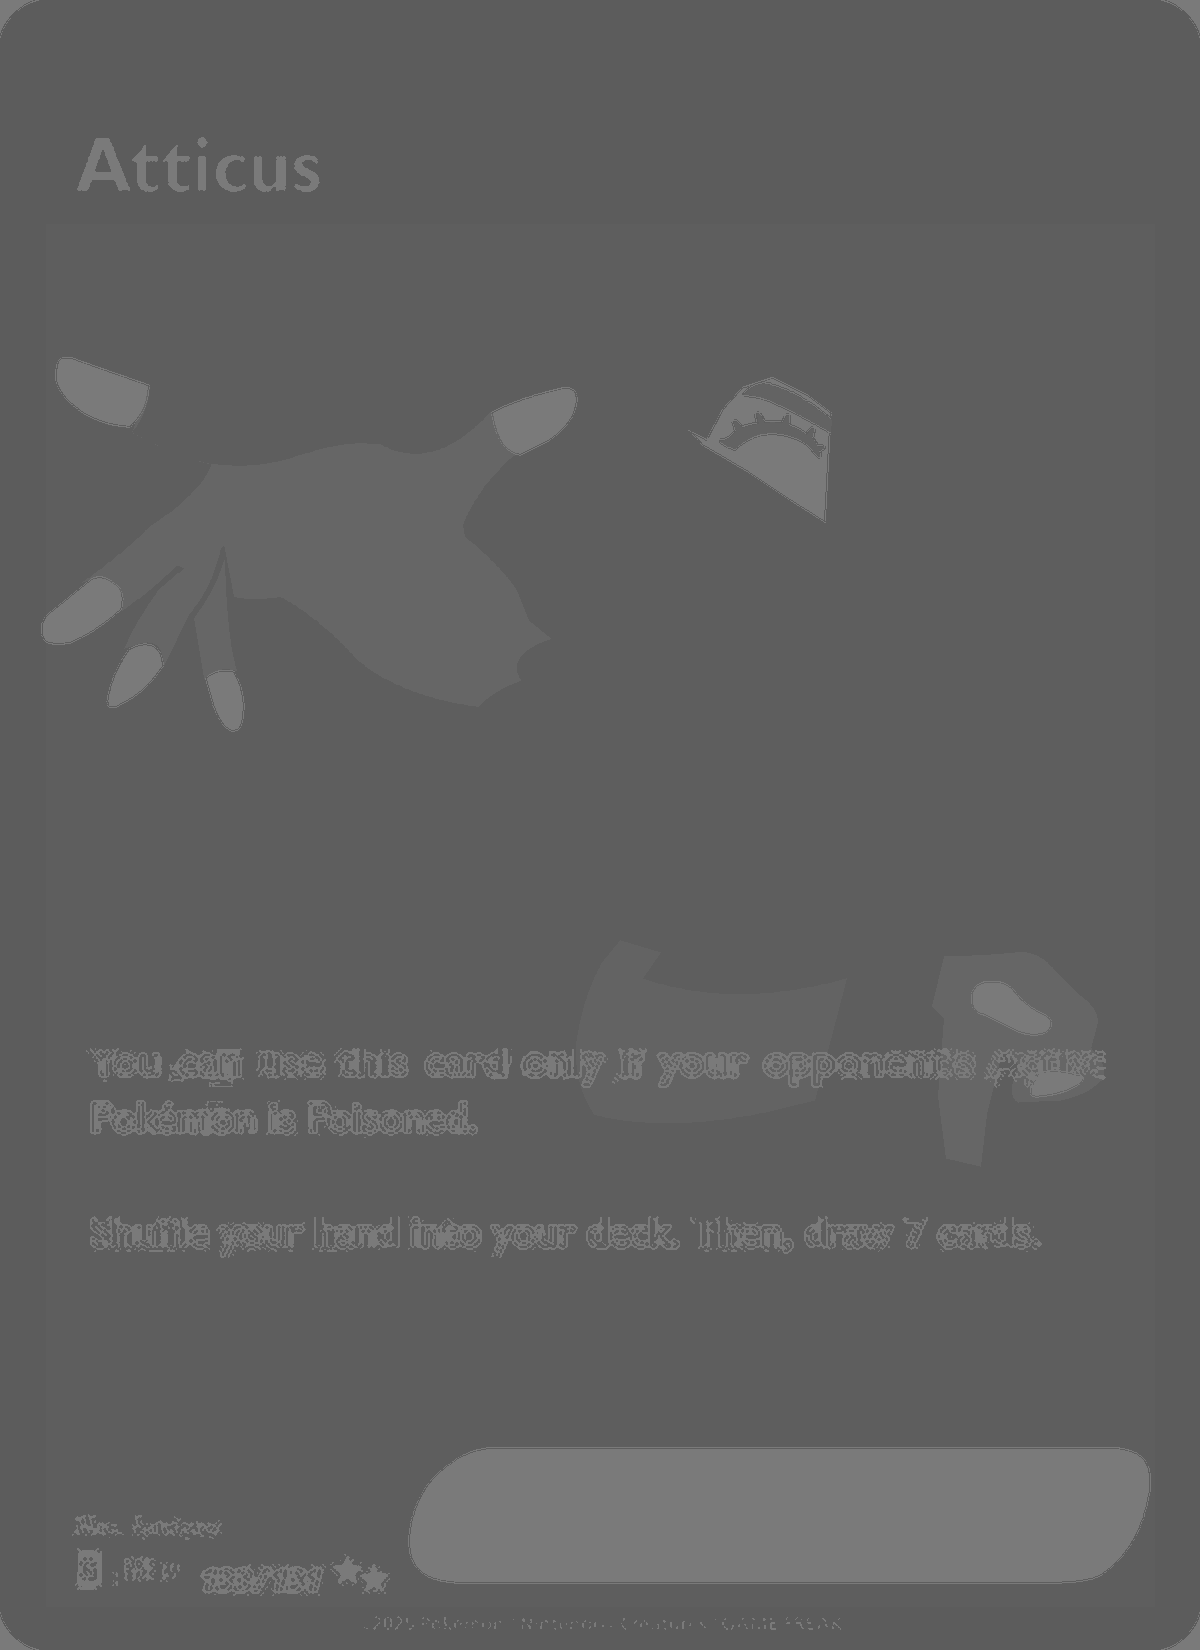
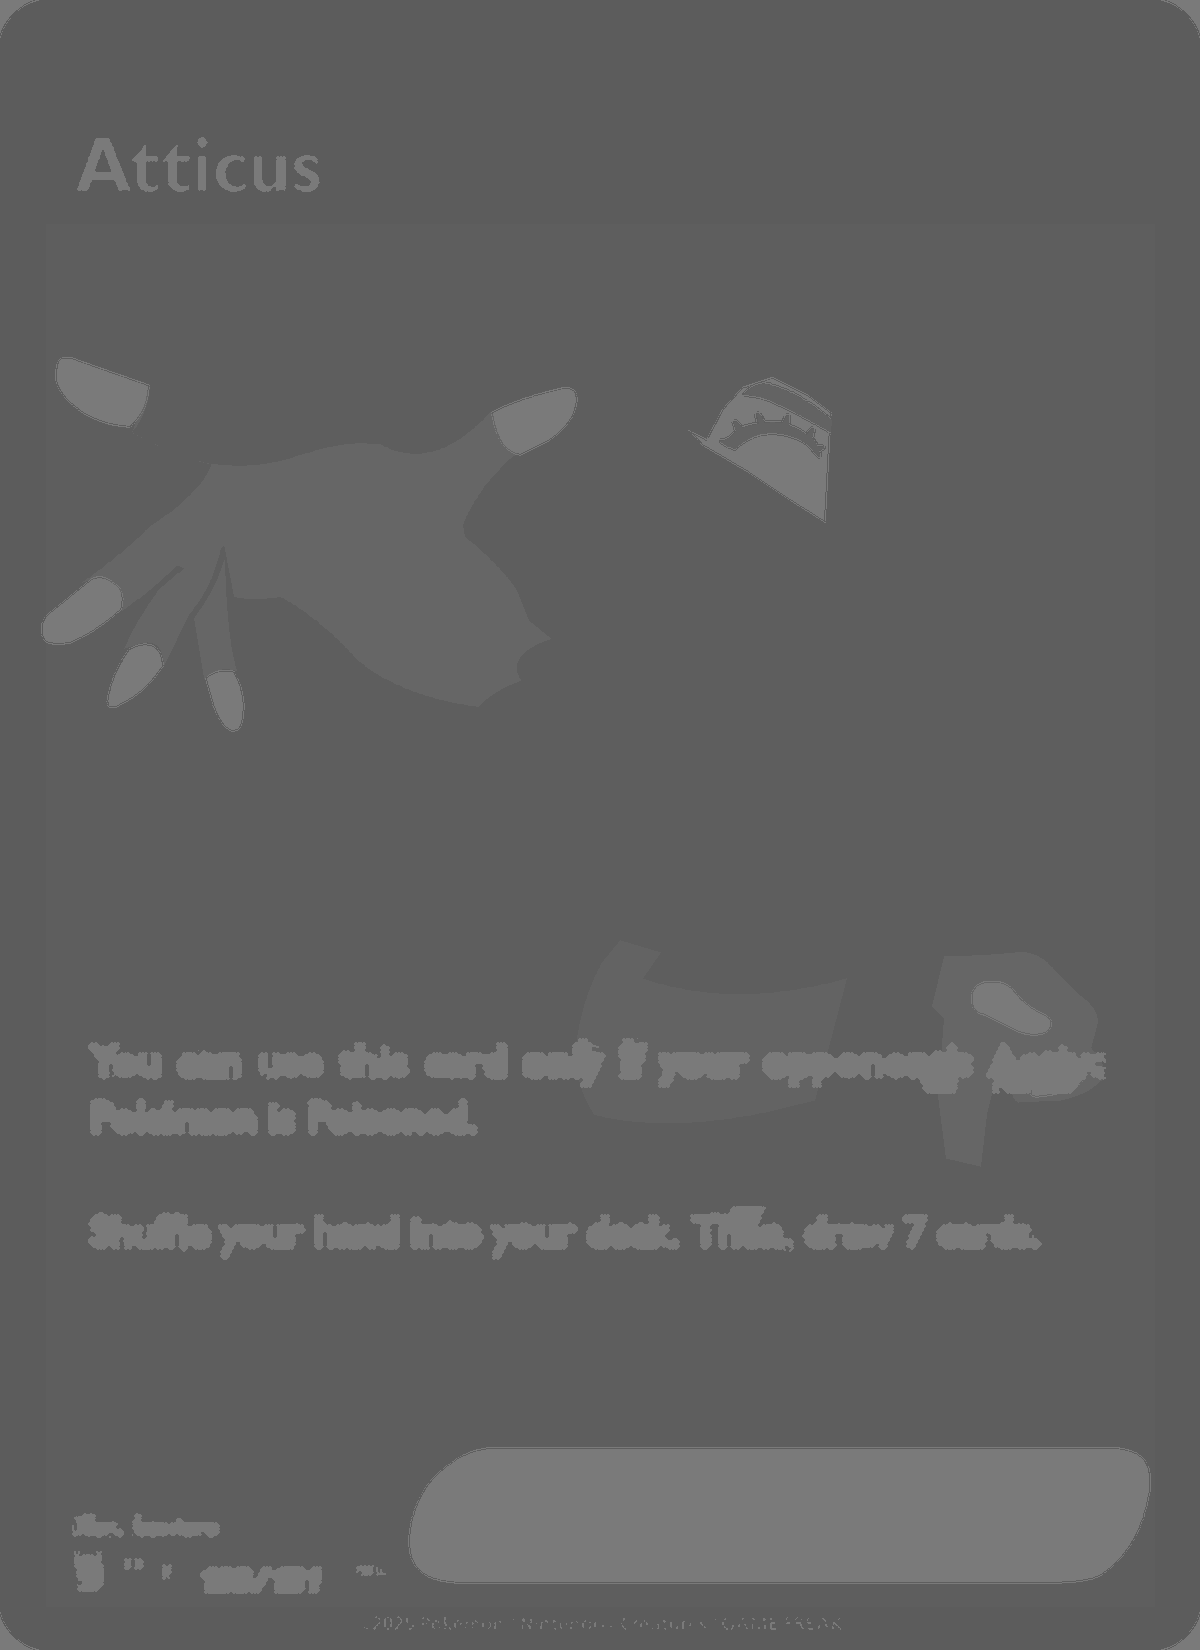
Correct Atticus text protection and couple foil to etched normals

diff --git a/src/materials/HolographicMaterial.ts b/src/materials/HolographicMaterial.ts
@@ -26,6 +26,7 @@ interface OpticalRegion {
   pattern: Node<'float'>;
   /** Artist-authored grating axes lie in the authored relief's tangent plane. */
   followsAuthoredSurface?: boolean;
+  uniformAuthoredSurface?: boolean;
   inkTransmission?: Node<'vec3'>;
   image?: Node<'vec3'>;
   imageDepth?: Node<'float'>;
@@ -268,6 +269,11 @@ export class HolographicMaterial extends MeshPhysicalNodeMaterial {
       { coverage: secondary, optics: this.secondaryOptics, seed: seed + 8191, field: this.secondaryFieldTextureNode, details: this.secondaryReliefTextureNode, pattern: this.patternTextureNode.g, followsAuthoredSurface: !!cardMaps?.secondaryDirection && cardMaps.hasNormal },
       { coverage: stamp, optics: this.stampOptics, seed: seed + 16381, field: this.stampFieldTextureNode, details: this.stampReliefTextureNode, pattern: this.patternTextureNode.b, followsAuthoredSurface: !!cardMaps?.stampDirection && cardMaps.hasNormal },
     ];
+    this.regions.forEach((region, i) => {
+      const layer = [profile, profile.secondary, profile.stamp][i];
+      region.uniformAuthoredSurface = !!layer?.diffraction.followsAuthoredNormals;
+      region.followsAuthoredSurface ||= region.uniformAuthoredSurface && !!cardMaps?.hasNormal;
+    });
     for (const region of this.regions) {
       // The parallel foil lies beneath colored ink. Its reflected light must
       // pass through that ink instead of adding an unfiltered white veil over it.
@@ -391,6 +397,13 @@ export class HolographicMaterial extends MeshPhysicalNodeMaterial {
     this.stampFieldTextureNode.value = this.cardMaps?.stampDirection ?? maps.stamp?.direction ?? this.neutralField;
     this.stampReliefTextureNode.value = maps.stamp?.relief ?? this.neutralRelief;
     this.optics.apply(profile); this.secondaryOptics.apply(profile.secondary); this.stampOptics.apply(profile.stamp);
+    const layers = [profile, profile.secondary, profile.stamp];
+    const axes = [this.cardMaps?.direction, this.cardMaps?.secondaryDirection, this.cardMaps?.stampDirection];
+    this.regions?.forEach((region, i) => {
+      region.uniformAuthoredSurface = !!layers[i]?.diffraction.followsAuthoredNormals;
+      const follows = !!this.cardMaps?.hasNormal && (!!axes[i] || region.uniformAuthoredSurface);
+      if (!!region.followsAuthoredSurface !== follows) { region.followsAuthoredSurface = follows; this.needsUpdate = true; }
+    });
     if (previousFeatures !== this.opticalFeatureKey()) this.needsUpdate = true;
     this.physicalGain.value = 1;
     const settings = { ...this.cardMaps, ...profile.mapSettings };
@@ -424,7 +437,7 @@ export class HolographicMaterial extends MeshPhysicalNodeMaterial {
     this.surfaceControls.hasExtendedFoil.value = maps.hasExtendedFoil ? 1 : 0;
     const authored = [maps.direction, maps.secondaryDirection, maps.stampDirection];
     this.regions.forEach((region, i) => {
-      const follows = !!authored[i] && maps.hasNormal;
+      const follows = (!!authored[i] || !!region.uniformAuthoredSurface) && maps.hasNormal;
       if (!!region.followsAuthoredSurface !== follows) { region.followsAuthoredSurface = follows; this.needsUpdate = true; }
     });
   }

diff --git a/src/materials/profiles/prismatic.ts b/src/materials/profiles/prismatic.ts
@@ -20,9 +20,9 @@ export const prismaticProfiles: HolographicProfile[] = [{
 }, {
   id: 'prismatic_fullart_texture', name: 'Prismatic · Full-art etched', family: 'Pokémon', status: 'development', labOnly: true,
   description: 'Scarlet & Violet full-art Trainer foil under colored ink. A uniform sheet direction drives diffraction, while card-specific PNG height and normal maps supply photo-guided etched relief. Ridge placement and depth are reconstructed approximations. Atticus 133 is authored. Other full arts still need their own maps.',
-  diffraction: { period: 1.18, bandwidth: .048, strength: .32, secondaryOrder: .08, direction: 0, crossWidth: .40, facetCoupling: 0 },
+  diffraction: { period: 1.18, bandwidth: .032, strength: .48, secondaryOrder: .04, direction: -.55, crossWidth: .22, facetCoupling: 0, followsAuthoredNormals: true },
   structure: { field: 'plain', scale: 1, engraving: 0, relief: 0, patternRelief: 0, facetTilt: 0, reflectionCoupling: 0, normalVariance: 0 },
   glints: { density: 0, scale: 1, sharpness: 1, strength: 0, spread: 0 },
-  surface: { metalness: .70, roughness: .34, laminate: .12, laminateRoughness: .34, foilReflectance: .04, sheen: 0, inkTransmission: 1 },
+  surface: { metalness: .70, roughness: .34, laminate: .06, laminateRoughness: .26, foilReflectance: .025, sheen: 0, inkTransmission: 1 },
   mapSettings: { normalScale: 1.35, embossStrength: 0, roughnessMode: 'absolute' },
 }];

diff --git a/src/materials/HolographicProfile.ts b/src/materials/HolographicProfile.ts
@@ -19,6 +19,8 @@ export interface FoilLayer {
     crossing?: number;
     /** How closely the grating follows the manufactured facet's tilted surface. */
     facetCoupling?: number;
+    /** Project even a uniform sheet axis onto the card's authored etched normals. */
+    followsAuthoredNormals?: boolean;
   };
   structure: { field: 'radial' | 'symbol-foil' | PatternKind; engraving: number; scale: number; relief: number; facetTilt?: number; patternRelief?: number; normalVariance?: number;
     motif?: MotifSpec;

diff --git a/scripts/prismatic/create-fullart-coverage.py b/scripts/prismatic/create-fullart-coverage.py
@@ -9,7 +9,7 @@ import json
 import re
 import numpy as np
 from PIL import Image, ImageDraw
-from scipy.ndimage import maximum_filter, binary_fill_holes
+from scipy.ndimage import maximum_filter, binary_fill_holes, label, binary_dilation
 
 ROOT = Path(__file__).resolve().parents[2]
 ASSETS = ROOT / 'public/cards/pokemon/prismatic-evolutions'
@@ -69,14 +69,28 @@ for number, regions in DATA['cards'].items():
         darkness = rgb[y0:y1, x0:x1].max(axis=2)
         protection[y0:y1, x0:x1] = np.maximum(protection[y0:y1, x0:x1], np.clip((155-darkness)/110, 0, 1))
     for x0, y0, x1, y1 in regions['outlinedGlyphRegions']:
+        # Include ascenders above the old row bounds; derive outlines only from
+        # isolated dark glyph cores, never from pale artwork across a text row.
+        y0=max(0,y0-5); y1=min(825,y1+3)
         patch = rgb[y0:y1, x0:x1]
         white = np.clip((patch.min(axis=2)-185)/55, 0, 1)
         dark = patch.max(axis=2) < 105
-        # White glyph outlines enclose their black printed core. Retain the
-        # enclosed ink and immediate edge, not every dark artwork pixel in a row.
-        enclosed = binary_fill_holes(white > .45)
-        core = dark & (enclosed | (maximum_filter(white, size=3) > .6))
-        protection[y0:y1, x0:x1] = np.maximum(protection[y0:y1, x0:x1], np.maximum(white, core))
+        components,count=label(dark)
+        core=np.zeros(dark.shape,dtype=bool)
+        for component in range(1,count+1):
+            candidate=components==component
+            cy,cx=np.nonzero(candidate)
+            if len(cx)<2 or cx.max()-cx.min()>22 or cy.max()-cy.min()>24:
+                continue
+            rim=binary_dilation(candidate,iterations=2) & ~candidate
+            # Printed black letters have a bright outline around most of their
+            # perimeter. Dark forest and clothing edges do not.
+            if float(np.mean(white[rim]>.1)) < .35:
+                continue
+            core|=candidate
+        outline=white*(maximum_filter(core,size=5)>0)
+        glyph=np.maximum(outline,binary_fill_holes((outline>.2)|core))
+        protection[y0:y1, x0:x1] = np.maximum(protection[y0:y1, x0:x1], glyph)
     protection_path = output / f'{number}-holo-protection.png'
     Image.fromarray(np.rint(np.clip(protection, 0, 1)*255).astype(np.uint8)).resize((1200, 1650), Image.Resampling.LANCZOS).save(protection_path)
 
